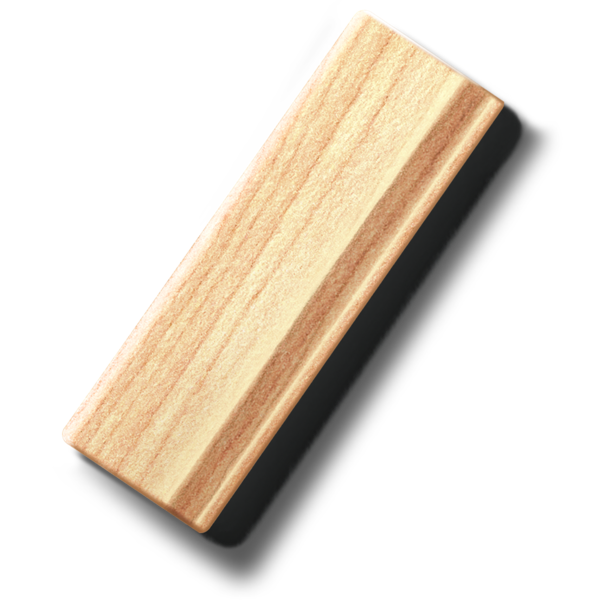
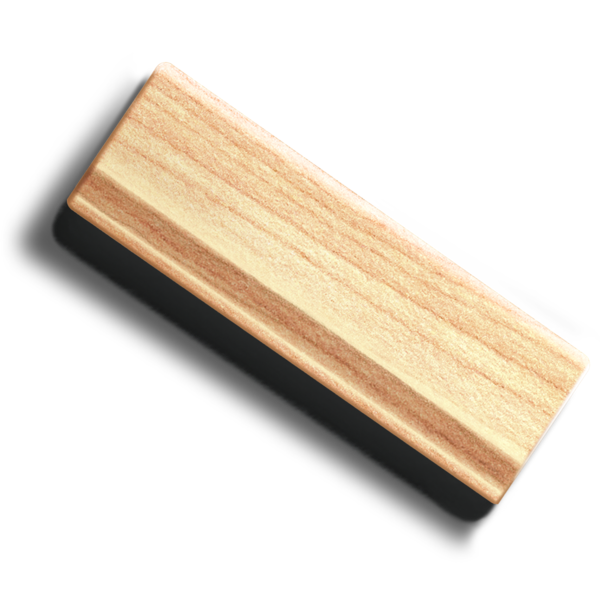
eraser pencil toggle

diff --git a/src/components/main-canvas/DrawingCanvas.tsx b/src/components/main-canvas/DrawingCanvas.tsx
@@ -22,6 +22,8 @@ import {
   MdNoteAdd,
   MdUndo,
   MdRedo,
+  MdOutlineEdit,
+  MdDraw,
 } from "react-icons/md";
 import { Point } from "../../interfaces/main-canvas/DrawingTool";
 import { chalkDusterTheme } from "../../game-theme/chalk-duster/chalk-duster-theme";
@@ -29,6 +31,7 @@ import { useDrawerShell } from "../../services/providers/DrawerShellProvider";
 import { DrawerShell } from "../ui/DrawerShell";
 import { FiDelete } from "react-icons/fi";
 import { BiArrowFromTop } from "react-icons/bi";
+import { BsEraserFill, BsPencilFill } from "react-icons/bs";
 
 const DrawingCanvas = () => {
   // Theme Config
@@ -65,8 +68,11 @@ const DrawingCanvas = () => {
 
   const [pages, setPages] = useState<string[]>([]); // Store canvas data as Base64
   const [currentPage, setCurrentPage] = useState<number>(0);
+  const [strokeSize, setStrokeSize] = useState(0);
+  const [eraserSize, setEraserSize] = useState(10);
   const [undoStack, setUndoStack] = useState<string[]>([]);
   const [redoStack, setRedoStack] = useState<string[]>([]);
+  const [isEraser, setIsEraser] = useState(false); // Tracks if eraser is selected
   const undoRedoStacks = useRef<
     Record<number, { undoStack: string[]; redoStack: string[] }>
   >({
@@ -78,6 +84,10 @@ const DrawingCanvas = () => {
       return canvasRef.current.toDataURL();
     }
     return null;
+  };
+
+  const toggleTool = () => {
+    setIsEraser(!isEraser);
   };
 
   const restoreSnapshot = (snapshot: string) => {
@@ -242,8 +252,8 @@ const DrawingCanvas = () => {
     const imageData = ctx.getImageData(
       0,
       0,
-      canvasRef.current?.width,
-      canvasRef.current?.height
+      canvasRef.current?.width || 0,
+      canvasRef.current?.height || 0
     );
 
     const data = imageData.data;
@@ -285,11 +295,23 @@ const DrawingCanvas = () => {
       canvasContext.beginPath();
       canvasContext.moveTo(point1.x, point1.y);
       canvasContext.lineTo(point2.x, point2.y);
-      canvasContext.strokeStyle = penStroke.strokeStyle;
-      canvasContext.lineWidth = penStroke?.lineWidth || 3;
-      canvasContext.lineCap = penStroke.lineCap;
-      canvasContext.stroke();
-      penSpecialEffect(canvasContext, point1.x, point1.y, point2.x, point2.y);
+
+      if (isEraser) {
+        canvasContext.strokeStyle = "red";
+        canvasContext.lineWidth = 1;
+        canvasContext.clearRect(
+          x - eraserSize / 2,
+          y - eraserSize / 2,
+          eraserSize,
+          eraserSize
+        ); // Erase
+      } else {
+        canvasContext.strokeStyle = penStroke.strokeStyle;
+        canvasContext.lineWidth = penStroke?.lineWidth || 3;
+        canvasContext.lineCap = penStroke.lineCap;
+        canvasContext.stroke();
+        penSpecialEffect(canvasContext, point1.x, point1.y, point2.x, point2.y);
+      }
     }
   };
 
@@ -310,8 +332,8 @@ const DrawingCanvas = () => {
       ? e.touches[0].clientY - rect.top
       : e.clientY - rect.top;
     const point1 = {
-      x: startX - 0.5 * penStroke.lineWidth,
-      y: startY - 0.5 * penStroke.lineWidth,
+      x: startX - 0.5 * penStroke.lineWidth!,
+      y: startY - 0.5 * penStroke.lineWidth!,
     };
     const point2 = { x: startX, y: startY };
     draw(point1, point2);
@@ -454,15 +476,34 @@ const DrawingCanvas = () => {
             //   }}
             // />
           }
-
-          {(isDrawing.current || fancyCursor.current) && (
+          {isEraser && isDrawing.current && (
             <div
-              className="custom-cursor fixed z-10 w-10 h-12 "
+              onDrag={(e) => {
+                e.preventDefault();
+              }}
+              onClick={() => {}}
+              className="fixed border-2 border-white"
               style={{
-                background: `url(${pen})`,
+                position: "fixed",
+                width: eraserSize,
+                height: eraserSize,
+                left: `${x - eraserSize / 2}px`,
+                top: `${y - eraserSize / 2}px`,
+              }}
+            />
+          )}
+          {isDrawing.current && (
+            <div
+              className={`custom-cursor fixed z-10 w-10 h-12 select-none no-drag ${
+                isEraser ? "" : null
+              } `}
+              style={{
+                backgroundImage: `url(${
+                  isEraser ? "/assets/duster2.png" : pen
+                })`,
                 // backgroundColor: "white",
                 // backgroundColor: "white",
-                backgroundSize: "auto",
+                backgroundSize: "contain",
                 backgroundRepeat: "no-repeat",
                 left: `${x + window.innerWidth * 0.001}px`,
                 top: `${y + window.innerWidth * 0.001}px`,
@@ -502,7 +543,7 @@ const DrawingCanvas = () => {
               fontSize: 5,
             }}
             value={currentPage}
-            onChange={(e) => switchPage(e.target.value)}
+            onChange={(e) => switchPage(+e.target.value)}
           >
             {pages.map((_, index) => (
               <MenuItem key={index} value={index}>
@@ -526,6 +567,9 @@ const DrawingCanvas = () => {
           </Button>
           <Button onClick={redo}>
             <MdRedo size={20} />
+          </Button>
+          <Button onClick={toggleTool}>
+            {isEraser ? <MdDraw size={20} /> : <BsEraserFill size={20} />}
           </Button>
           <Button onClick={() => openDrawer()} style={{ color: "white " }}>
             <BiArrowFromTop />

diff --git a/src/game-theme/chalk-duster/chalk-duster-theme.ts b/src/game-theme/chalk-duster/chalk-duster-theme.ts
@@ -1,5 +1,4 @@
 import { Theme } from "../../interfaces/main-canvas/DrawingTool";
-
 // Pen Config
 const penStroke = {
   lineCap: "round" as CanvasLineCap,
